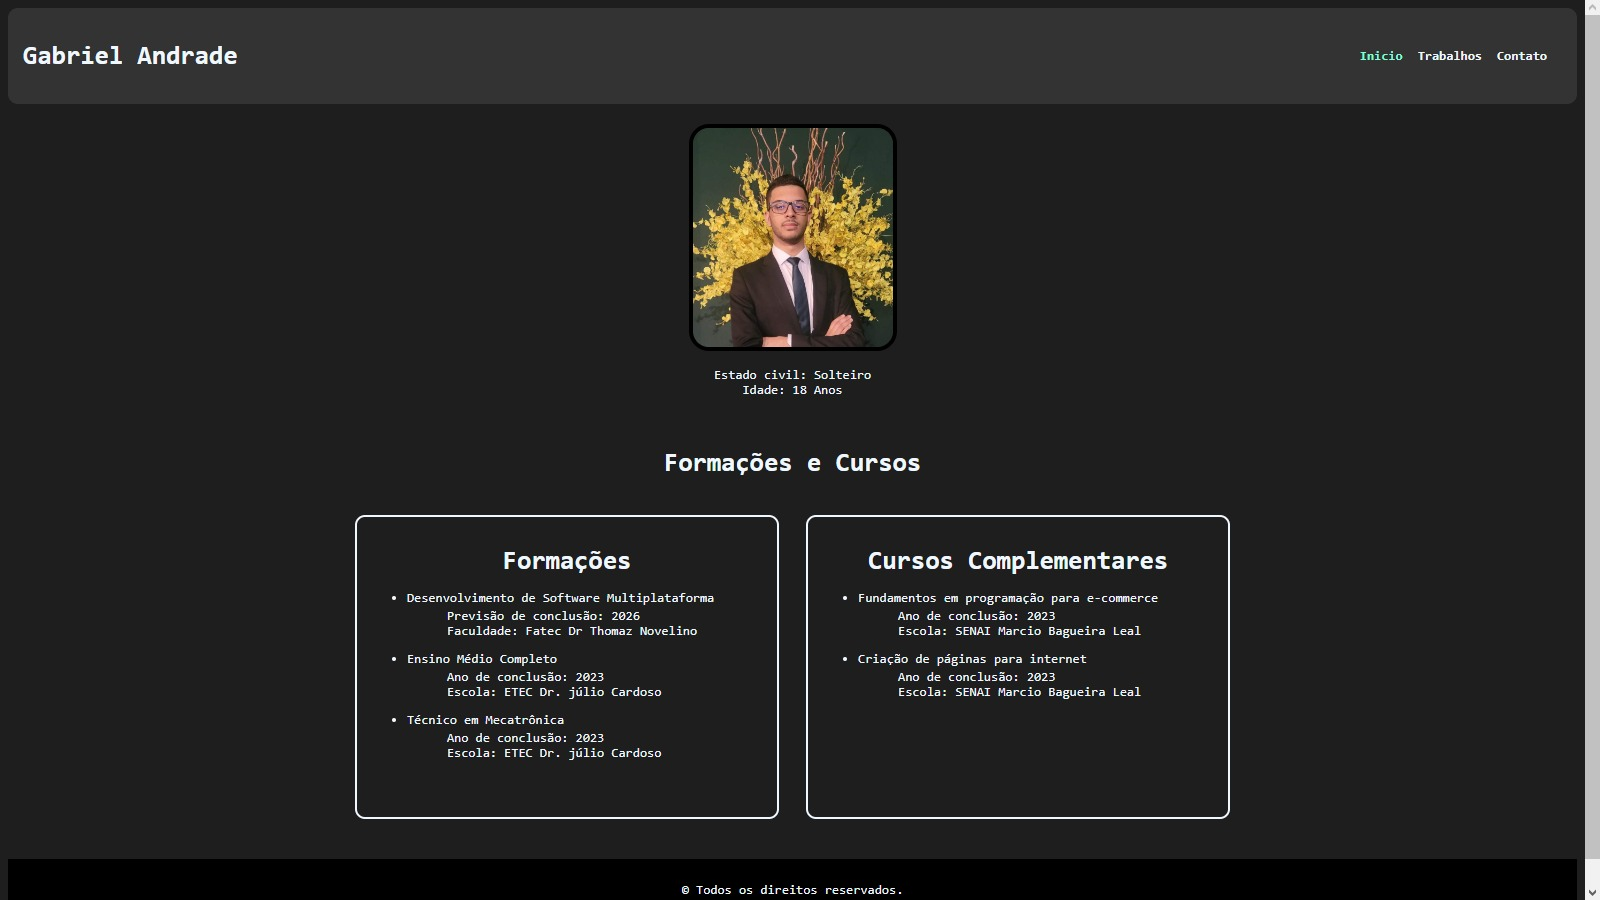
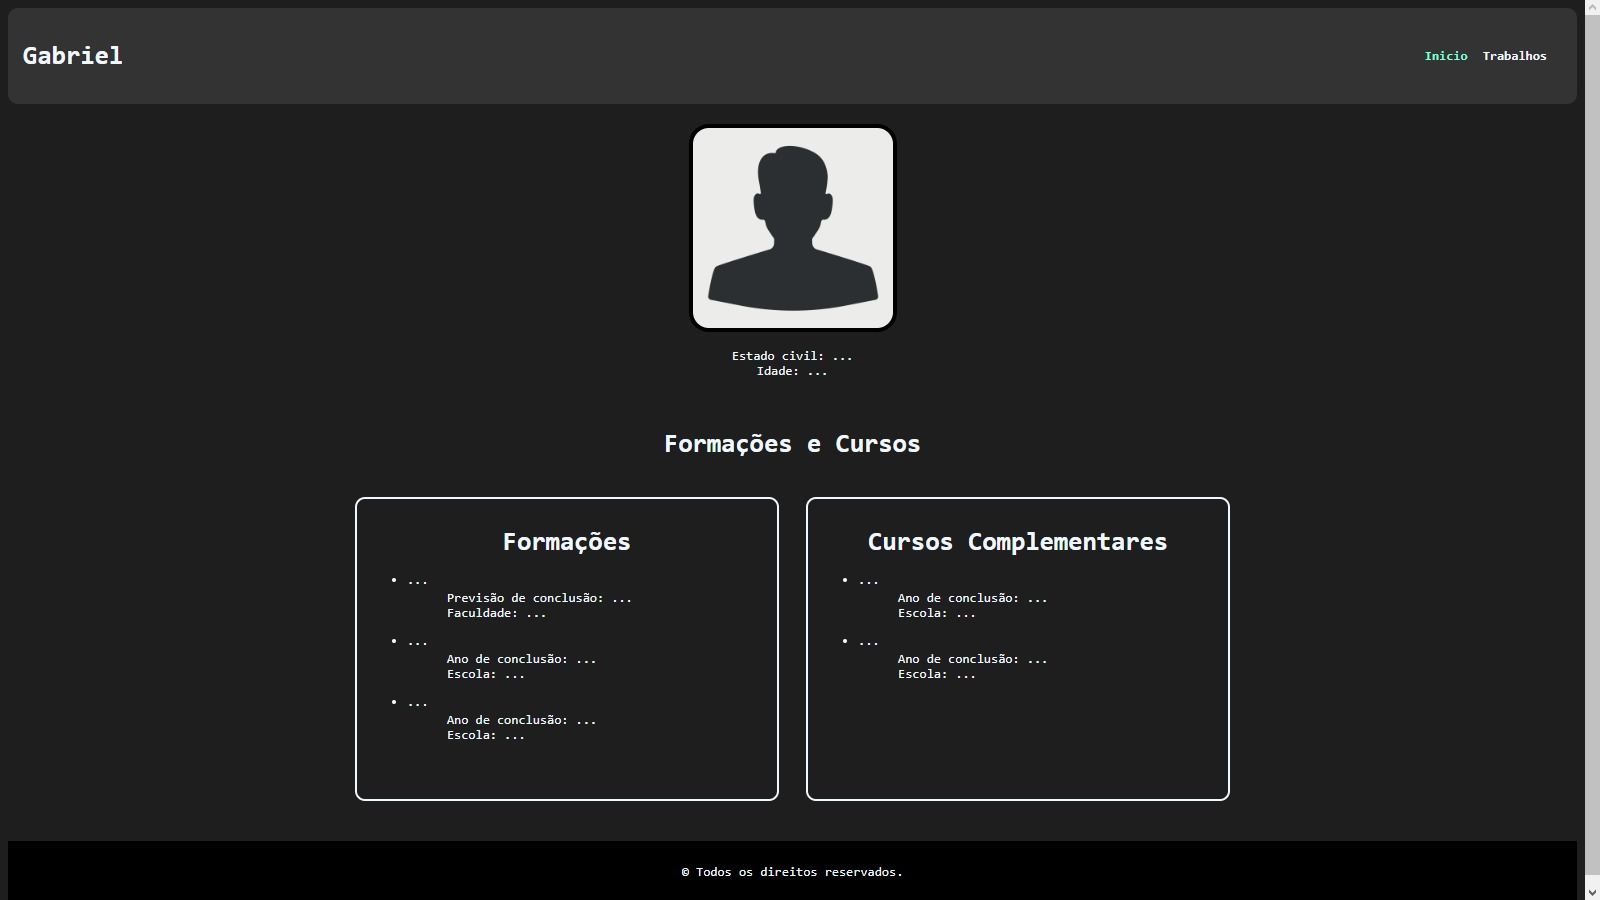
readme

diff --git a/Inicio.html b/Inicio.html
@@ -4,31 +4,30 @@
 <head>
     <meta charset="UTF-8">
     <meta name="viewport" content="width=device-width, initial-scale=1.0">
-    <title>Gabriel Andrade Aleixo</title>
+    <title>Gabriel</title>
     <link rel="stylesheet" href="./css/style.css">
-    <link rel="icon" href="./css/img/FotoPerfil.jpg" type="image/x-icon">
+    <link rel="icon" href="./css/img/anoni.jpg" type="image/x-icon">
 </head>
 
 <body>
     <header>         
-        <h1>Gabriel Andrade</h1>
+        <h1>Gabriel</h1>
         <nav>
             <ul>
                 <li><a href="./Inicio.html" class="Aqui">Inicio</a></li>
                 <li><a href="./Trabalhos.html">Trabalhos</a></li>
-                <li><a href="./Social.html">Contato</a></li>
             </ul>
         </nav>
     </header>
     <div>
         <div class="DivFoto">
             <!-- Foto -->
-            <img src="./css/img/FotoPerfil.jpg" alt="Perfil de usuario" class="FotoPerfil">
+            <img src="./css/img/anoni.jpg" alt="Perfil de usuario" class="FotoPerfil">
         </div>
         <div class="DivFoto" style="margin-top: -40px;">
-            <p>Estado civil: Solteiro
+            <p>Estado civil: ...
                 <br>
-                Idade: 18 Anos
+                Idade: ...
             </p>
         </div>
 
@@ -46,31 +45,31 @@
                 <ul>
                     <li>
                         <p>
-                            Desenvolvimento de Software Multiplataforma
+                            ...
                         <ul class="Ulli">
-                            Previsão de conclusão: 2026
+                            Previsão de conclusão: ...
                             <br>
-                            Faculdade: Fatec Dr Thomaz Novelino
+                            Faculdade: ...
                         </ul>
                         </p>
                     </li>
                     <li>
                         <p>
-                            Ensino Médio Completo
+                            ...
                         <ul class="Ulli">
-                            Ano de conclusão: 2023
+                            Ano de conclusão: ...
                             <br>
-                            Escola: ETEC Dr. júlio Cardoso
+                            Escola: ...
                         </ul>
                         </p>
                     </li>
                     <li>
                         <p>
-                            Técnico em Mecatrônica
+                            ...
                         <ul class="Ulli">
-                            Ano de conclusão: 2023
+                            Ano de conclusão: ...
                             <br>
-                            Escola: ETEC Dr. júlio Cardoso
+                            Escola: ...
                         </ul>
                         </p>
                     </li>
@@ -89,21 +88,21 @@
                 <ul>
                     <li>
                         <p>
-                            Fundamentos em programação para e-commerce
+                            ...
                         <ul class="Ulli">
-                            Ano de conclusão: 2023
+                            Ano de conclusão: ...
                             <br>
-                            Escola: SENAI Marcio Bagueira Leal
+                            Escola: ...
                         </ul>
                         </p>
                     </li>
                     <li>
                         <p>
-                            Criação de páginas para internet
+                            ...
                         <ul class="Ulli">
-                            Ano de conclusão: 2023
+                            Ano de conclusão: ...
                             <br>
-                            Escola: SENAI Marcio Bagueira Leal
+                            Escola: ...
                         </ul>
                         </p>
                     </li>

diff --git a/Trabalhos.html b/Trabalhos.html
@@ -2,18 +2,17 @@
     <meta charset="UTF-8">
     <meta name="viewport" content="width=device-width, initial-scale=1.0">
     <title>Gabriel Andrade Aleixo</title>
-    <link rel="icon" href="./css/img/FotoPerfil.jpg" type="image/x-icon">
+    <link rel="icon" href="./css/img/anoni.jpg" type="image/x-icon">
     <link rel="stylesheet" href="./css/style.css">
 </head>
 
 <body>
     <header>
-        <h1>Gabriel Andrade</h1>
+        <h1>Gabriel</h1>
         <nav>
             <ul>
                 <li><a href="./Inicio.html">Inicio</a></li>
                 <li><a href="./Trabalhos.html" class="Aqui">Trabalhos</a></li>
-                <li><a href="./Social.html">Contato</a></li>
             </ul>
         </nav>
     </header>

diff --git a/index.html b/index.html
@@ -4,8 +4,8 @@
 <head>
     <meta charset="UTF-8">
     <meta name="viewport" content="width=device-width, initial-scale=1.0">
-    <title>Gabriel Andrade Aleixo</title>
-    <link rel="icon" href="./css/img/FotoPerfil.jpg" type="image/x-icon">
+    <title>Gabriel</title>
+    <link rel="icon" href="./css/img/anoni.jpg" type="image/x-icon">
     <!-- <link rel="stylesheet" href="./css/estilo.css"> -->
 </head>
 <style>
@@ -195,7 +195,7 @@
     <div class="wrapper">
         <h1 class="BotaoCres">
             <a href="./Inicio.html">
-                Gabriel Andrade
+                Gabriel
                 <br>
             </a>
         </h1>

diff --git a/README.md b/README.md
@@ -24,9 +24,6 @@ Um site sobre o meu currículo. Provavelmente está desatualizado no momento. Ma
     <img src="./css/img/trabalho.png" alt="Imagem Trabalhos">
 </div>
 <br>
-<div>
-    <img src="./css/img/contato.png" alt="Imagem Contato">
-</div>
 
 ## 🛠 Construído com
 
